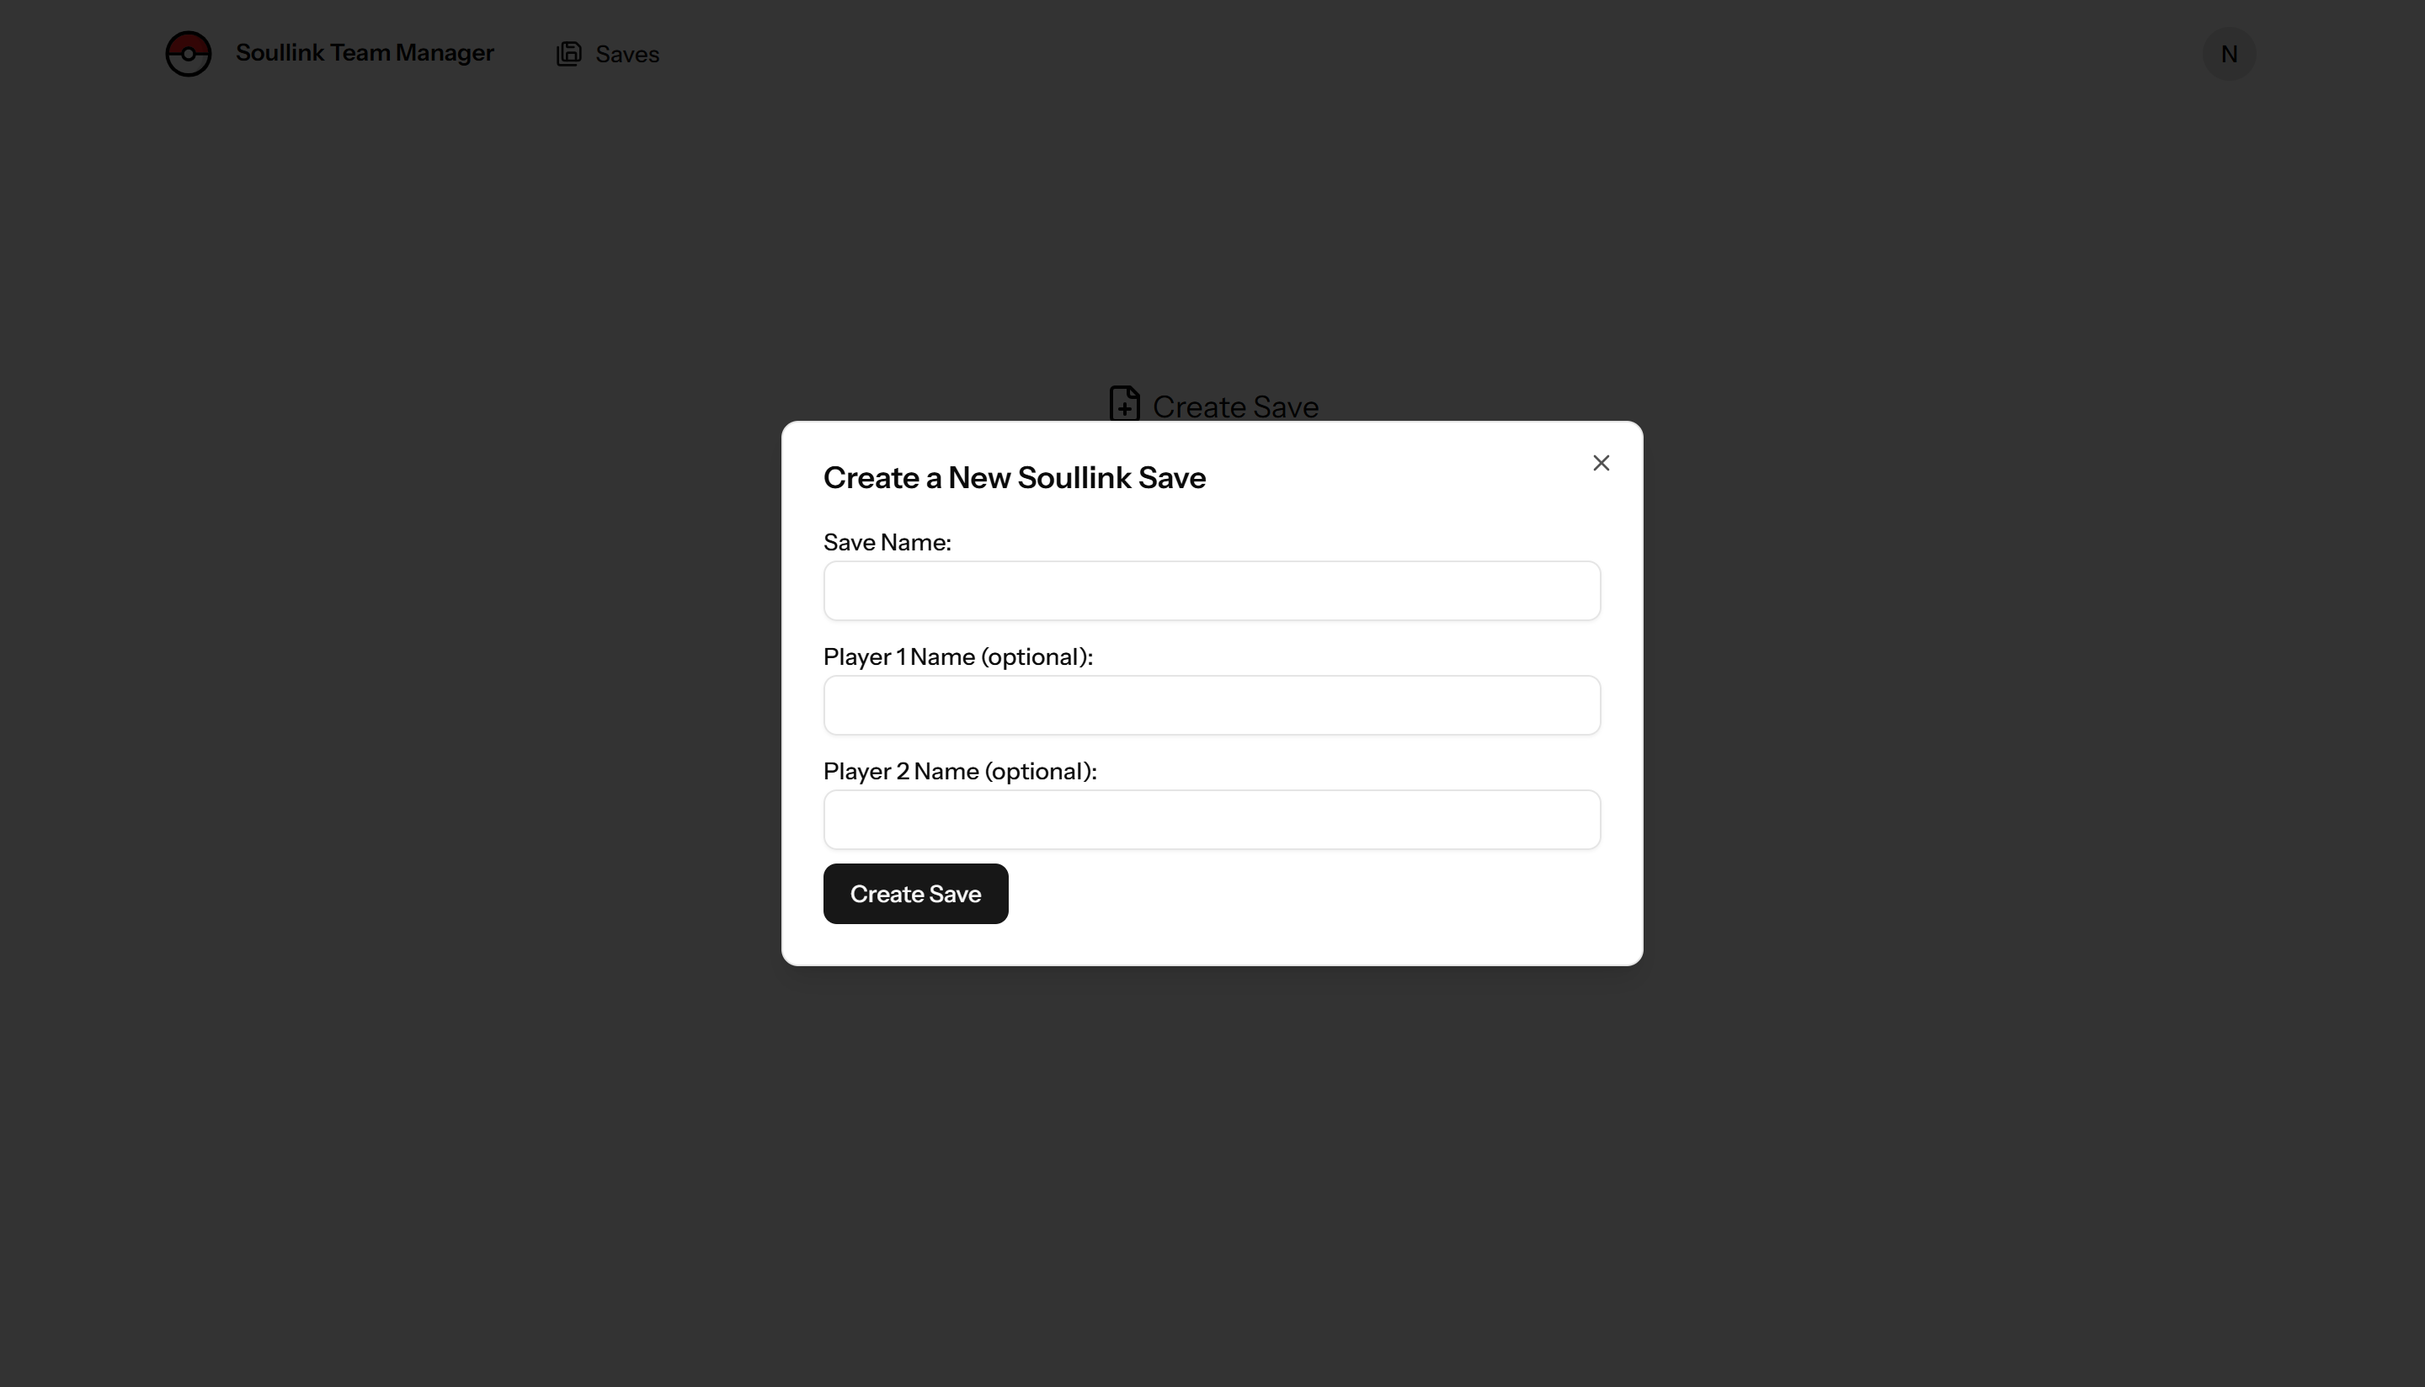
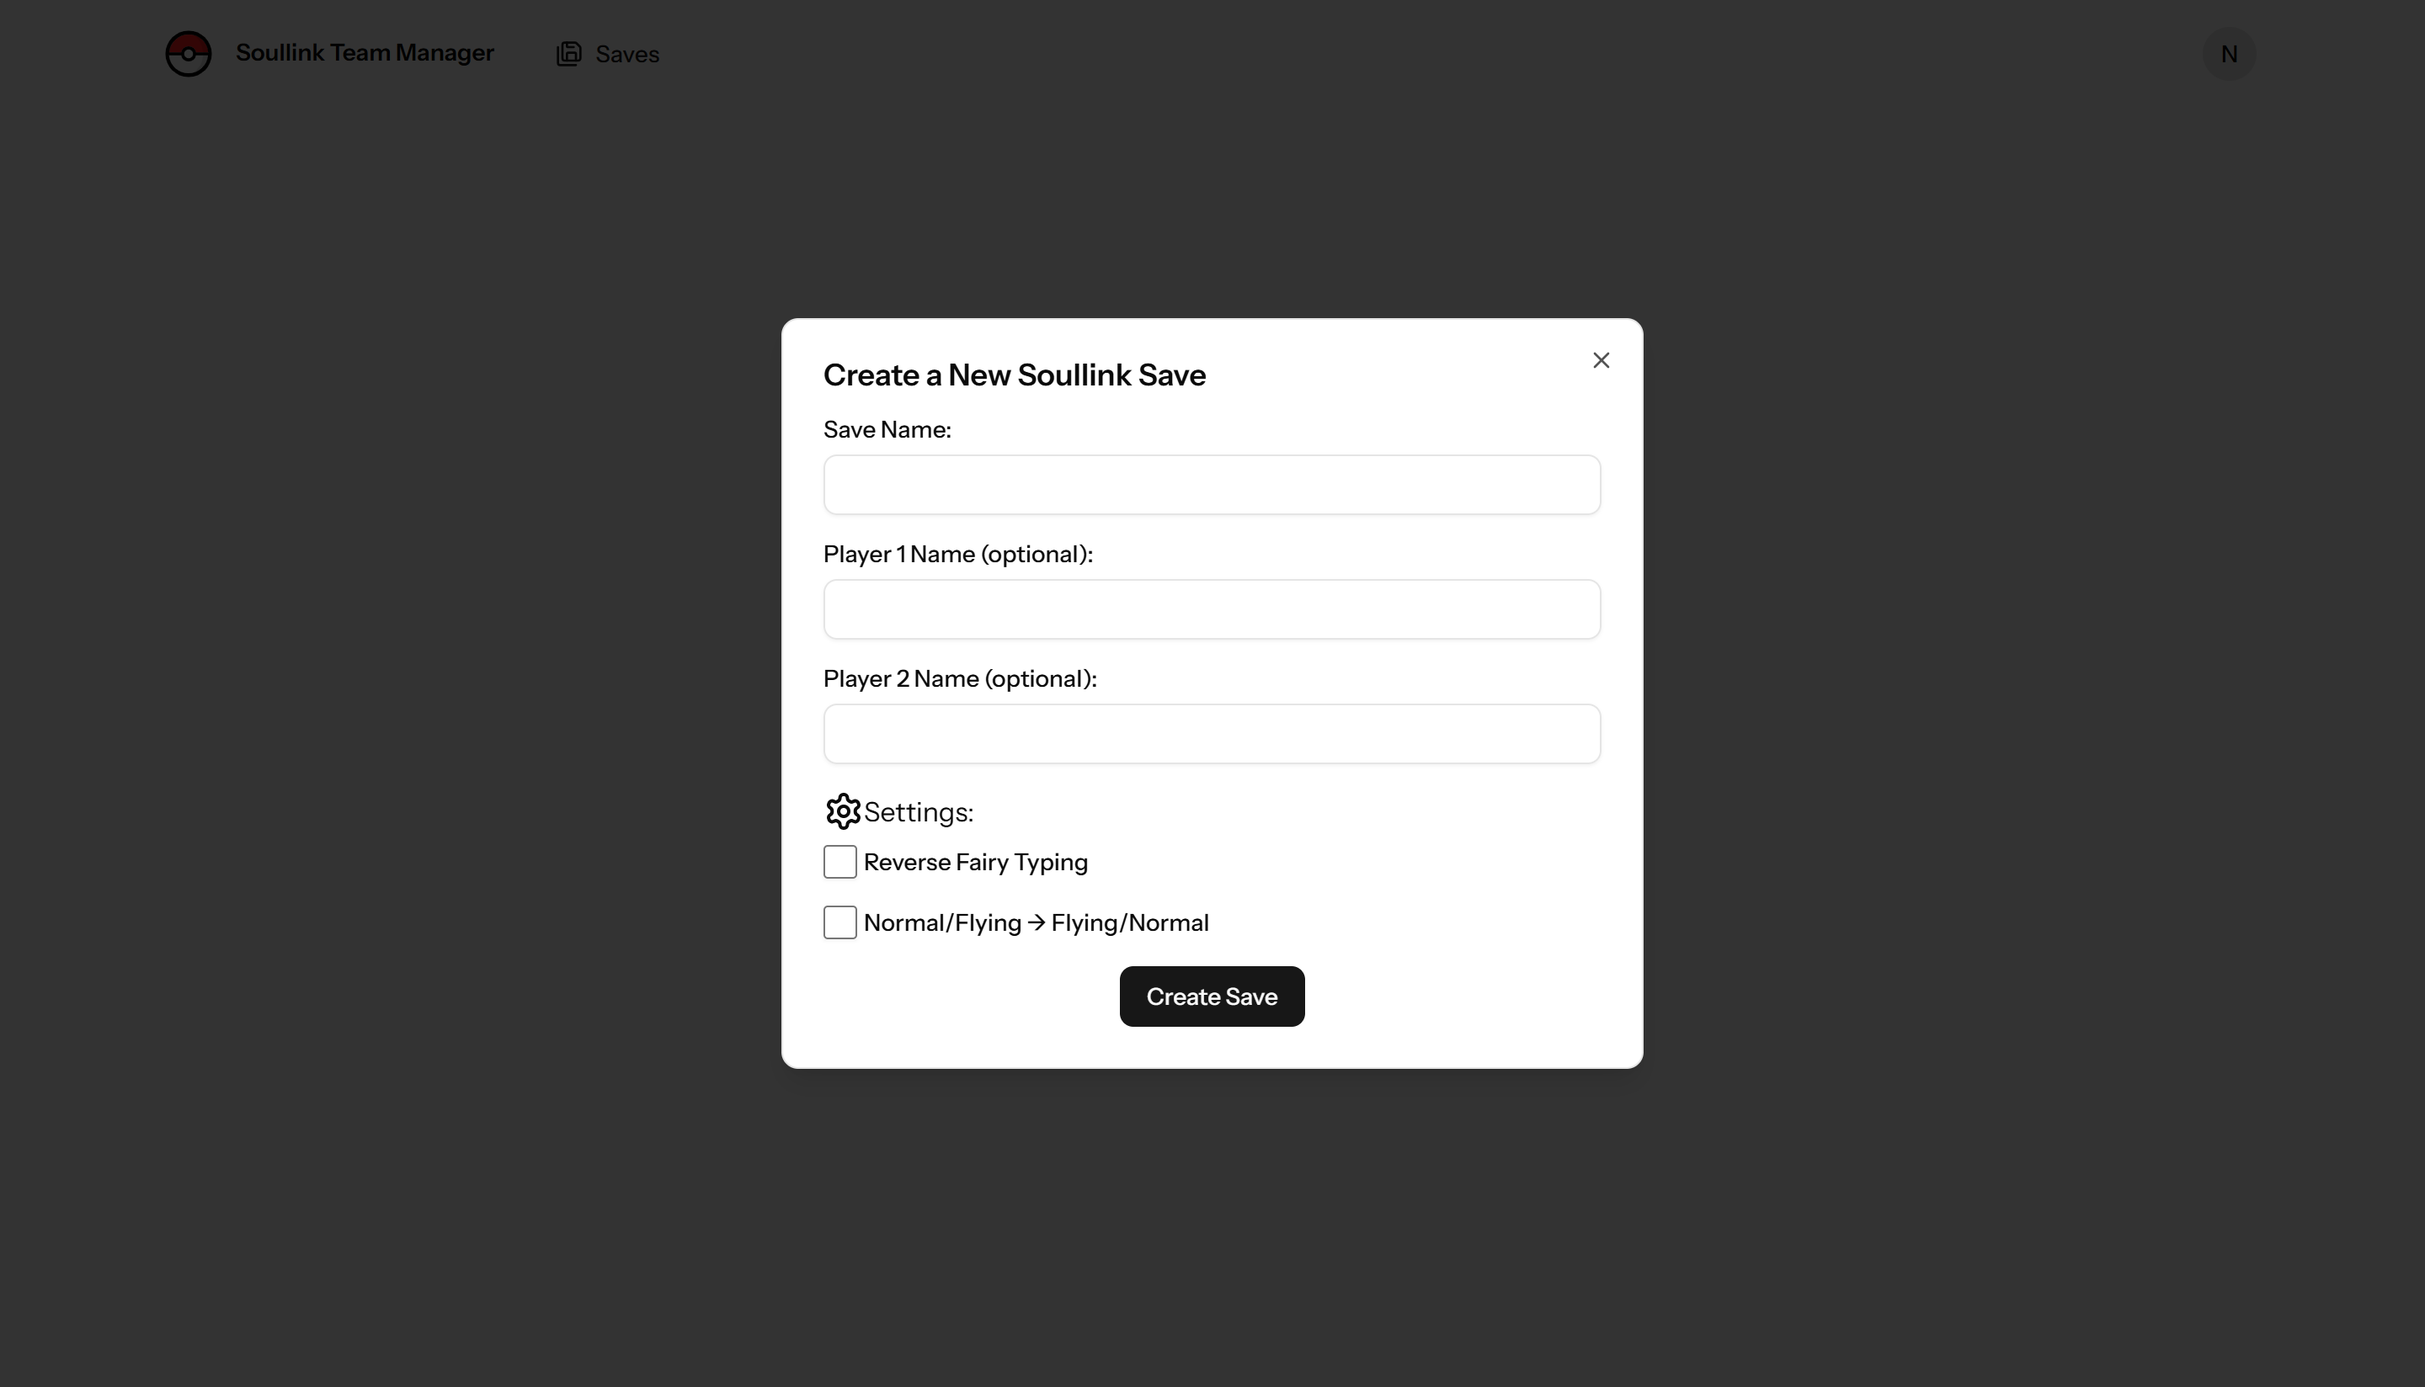
Add settings for Pokémon save options and update UI components
- Introduced 'swap_normal_flying_order' and 'revert_fairy_typing' settings in Save model and migration.
- Updated PairController to handle new settings during Pokémon type fetching.
- Enhanced SavesMenu component with UI for new settings, including tooltips for user guidance.

Changed region(s): [[0.3125, 0.5261, 0.6875, 0.7737], [0.3125, 0.2166, 0.6875, 0.4333], [0.3438, 0.4642, 0.4688, 0.4951]]

diff --git a/resources/js/components/soullink/saves-menu.tsx b/resources/js/components/soullink/saves-menu.tsx
@@ -4,8 +4,9 @@ import { Button } from '@/components/ui/button';
 import { Dialog, DialogContent, DialogHeader, DialogTitle, DialogTrigger } from '@/components/ui/dialog';
 import { Input } from '@/components/ui/input';
 import { Label } from '@/components/ui/label';
+import { Tooltip, TooltipContent, TooltipProvider, TooltipTrigger } from '@/components/ui/tooltip';
 import { Form, Link } from '@inertiajs/react';
-import { FilePlus, Save, Trash2 } from 'lucide-react';
+import { FilePlus, Save, Settings, Trash2 } from 'lucide-react';
 
 export default function SavesMenu({ saves }: { saves: any[] }) {
     return (
@@ -21,7 +22,7 @@ export default function SavesMenu({ saves }: { saves: any[] }) {
                     <DialogHeader>
                         <DialogTitle>Create a New Soullink Save</DialogTitle>
                     </DialogHeader>
-                    <Form action={store()} disableWhileProcessing>
+                    <Form action={store()} disableWhileProcessing className="flex flex-col gap-2">
                         {({ errors }) => (
                             <>
                                 <Label htmlFor="name">Save Name: </Label>
@@ -33,7 +34,47 @@ export default function SavesMenu({ saves }: { saves: any[] }) {
                                 <Label htmlFor="p2">Player 2 Name (optional): </Label>
                                 <Input className="mb-2" type="text" id="p2" name="p2"></Input>
                                 <InputError message={errors.p2} className="mt-2" />
-                                <Button className="cursor-pointer" type="submit">
+                                <p className="flex items-center">
+                                    <Settings className="ml-0" />
+                                    Settings:
+                                </p>
+                                <div className="mb-2">
+                                    <TooltipProvider>
+                                        <Tooltip>
+                                            <TooltipTrigger type="button" className="flex items-center">
+                                                <Input
+                                                    className="mr-1 size-5 cursor-pointer"
+                                                    type="checkbox"
+                                                    id="revert_fairy_typing"
+                                                    name="revert_fairy_typing"
+                                                ></Input>
+                                                <Label htmlFor="revert_fairy_typing">Reverse Fairy Typing </Label>
+                                            </TooltipTrigger>
+                                            <TooltipContent>
+                                                <p>Reverts pokemon like clefable from fairy to normal (recommended if playing generations 1-5)</p>
+                                            </TooltipContent>
+                                        </Tooltip>
+                                    </TooltipProvider>
+                                </div>
+                                <div className="mb-2">
+                                    <TooltipProvider>
+                                        <Tooltip>
+                                            <TooltipTrigger type="button" className="flex items-center">
+                                                <Input
+                                                    className="mr-1 size-5 cursor-pointer"
+                                                    type="checkbox"
+                                                    id="swap_normal_flying_order"
+                                                    name="swap_normal_flying_order"
+                                                ></Input>
+                                                <Label htmlFor="swap_normal_flying_order">Normal/Flying {'->'} Flying/Normal </Label>
+                                            </TooltipTrigger>
+                                            <TooltipContent>
+                                                <p>Reduces overcrowding in the Normal pool and makes teambuilding more fair.</p>
+                                            </TooltipContent>
+                                        </Tooltip>
+                                    </TooltipProvider>
+                                </div>
+                                <Button className="cursor-pointer self-center" type="submit">
                                     Create Save
                                 </Button>
                             </>
@@ -43,6 +84,7 @@ export default function SavesMenu({ saves }: { saves: any[] }) {
             </Dialog>
             <div className="mt-4 flex flex-col gap-2 text-center">
                 <p className="text-center">Load Save</p>
+                {/* TODO: make whole link clickable not just save name */}
                 {saves.map((save) => (
                     <div
                         className="align-center flex min-w-3xs justify-between rounded-sm px-3 py-2 transition-colors hover:bg-accent md:min-w-sm"

diff --git a/resources/js/components/ui/tooltip.tsx b/resources/js/components/ui/tooltip.tsx
@@ -3,57 +3,28 @@ import * as TooltipPrimitive from "@radix-ui/react-tooltip"
 
 import { cn } from "@/lib/utils"
 
-function TooltipProvider({
-  delayDuration = 0,
-  ...props
-}: React.ComponentProps<typeof TooltipPrimitive.Provider>) {
-  return (
-    <TooltipPrimitive.Provider
-      data-slot="tooltip-provider"
-      delayDuration={delayDuration}
+const TooltipProvider = TooltipPrimitive.Provider
+
+const Tooltip = TooltipPrimitive.Root
+
+const TooltipTrigger = TooltipPrimitive.Trigger
+
+const TooltipContent = React.forwardRef<
+  React.ElementRef<typeof TooltipPrimitive.Content>,
+  React.ComponentPropsWithoutRef<typeof TooltipPrimitive.Content>
+>(({ className, sideOffset = 4, ...props }, ref) => (
+  <TooltipPrimitive.Portal>
+    <TooltipPrimitive.Content
+      ref={ref}
+      sideOffset={sideOffset}
+      className={cn(
+        "z-50 overflow-hidden rounded-md bg-primary px-3 py-1.5 text-xs text-primary-foreground animate-in fade-in-0 zoom-in-95 data-[state=closed]:animate-out data-[state=closed]:fade-out-0 data-[state=closed]:zoom-out-95 data-[side=bottom]:slide-in-from-top-2 data-[side=left]:slide-in-from-right-2 data-[side=right]:slide-in-from-left-2 data-[side=top]:slide-in-from-bottom-2 origin-[--radix-tooltip-content-transform-origin]",
+        className
+      )}
       {...props}
     />
-  )
-}
-
-function Tooltip({
-  ...props
-}: React.ComponentProps<typeof TooltipPrimitive.Root>) {
-  return (
-    <TooltipProvider>
-      <TooltipPrimitive.Root data-slot="tooltip" {...props} />
-    </TooltipProvider>
-  )
-}
-
-function TooltipTrigger({
-  ...props
-}: React.ComponentProps<typeof TooltipPrimitive.Trigger>) {
-  return <TooltipPrimitive.Trigger data-slot="tooltip-trigger" {...props} />
-}
-
-function TooltipContent({
-  className,
-  sideOffset = 4,
-  children,
-  ...props
-}: React.ComponentProps<typeof TooltipPrimitive.Content>) {
-  return (
-    <TooltipPrimitive.Portal>
-      <TooltipPrimitive.Content
-        data-slot="tooltip-content"
-        sideOffset={sideOffset}
-        className={cn(
-          "bg-primary text-primary-foreground animate-in fade-in-0 zoom-in-95 data-[state=closed]:animate-out data-[state=closed]:fade-out-0 data-[state=closed]:zoom-out-95 data-[side=bottom]:slide-in-from-top-2 data-[side=left]:slide-in-from-right-2 data-[side=right]:slide-in-from-left-2 data-[side=top]:slide-in-from-bottom-2 z-50 max-w-sm rounded-md px-3 py-1.5 text-xs",
-          className
-        )}
-        {...props}
-      >
-        {children}
-        <TooltipPrimitive.Arrow className="bg-primary fill-primary z-50 size-2.5 translate-y-[calc(-50%_-_2px)] rotate-45 rounded-[2px]" />
-      </TooltipPrimitive.Content>
-    </TooltipPrimitive.Portal>
-  )
-}
+  </TooltipPrimitive.Portal>
+))
+TooltipContent.displayName = TooltipPrimitive.Content.displayName
 
 export { Tooltip, TooltipTrigger, TooltipContent, TooltipProvider }

diff --git a/app/Http/Controllers/SaveController.php b/app/Http/Controllers/SaveController.php
@@ -2,12 +2,11 @@
 
 namespace App\Http\Controllers;
 
+use App\Models\Pair;
 use App\Models\Save;
 use Illuminate\Http\Request;
-use Inertia\Inertia;
-use Inertia\Response;
-use App\Models\Pair;
 use Illuminate\Support\Facades\Gate;
+use Inertia\Inertia;
 
 class SaveController extends Controller
 {
@@ -17,6 +16,7 @@ class SaveController extends Controller
     public function index()
     {
         $saves = Save::where('user_id', auth()->id())->get();
+
         return Inertia::render('dashboard', [
             'saves' => $saves,
         ]);
@@ -39,14 +39,19 @@ class SaveController extends Controller
             'name' => 'required|string|max:255',
             'p1' => 'nullable|string|max:30',
             'p2' => 'nullable|string|max:30',
+            'swap_normal_flying_order' => 'nullable|string',
+            'revert_fairy_typing' => 'nullable|string',
         ]);
 
         $save = Save::create([
             'name' => $request->name,
             'player_one_name' => $request->p1,
             'player_two_name' => $request->p2,
+            'swap_normal_flying_order' => $request->swap_normal_flying_order ? 1 : 0,
+            'revert_fairy_typing' => $request->revert_fairy_typing ? 1 : 0,
             'user_id' => auth()->id(),
         ]);
+
         return to_route('saves.show', $save);
     }
 
@@ -56,10 +61,11 @@ class SaveController extends Controller
     public function show(Save $save)
     {
         Gate::authorize('view', $save);
-        
+
         $pairs = Pair::where('save_id', $save->id)->orderBy('created_at', 'asc')->get();
         $alivePairs = $pairs->where('is_alive', 1)->values();
         $deadBox = $pairs->where('is_alive', 0)->values();
+
         return Inertia::render('tracker', [
             'save' => $save,
             'livingBox' => $alivePairs,
@@ -90,6 +96,7 @@ class SaveController extends Controller
     {
         Gate::authorize('delete', $save);
         $save->delete();
+
         return to_route('saves.index');
     }
 }

diff --git a/app/Http/Controllers/PairController.php b/app/Http/Controllers/PairController.php
@@ -9,6 +9,17 @@ use Illuminate\Support\Facades\Gate;
 
 class PairController extends Controller
 {
+    private $fairyPokemon = [
+        'cleffa',
+        'clefairy',
+        'clefable',
+        'granbull',
+        'snubbull',
+        'togepi',
+        'togetic',
+        'togekiss',
+    ];
+
     /**
      * Display a listing of the resource.
      */
@@ -39,6 +50,16 @@ class PairController extends Controller
 
         $pokemonOneTypes = $this->fetchPokemonTypes($request->playerOnePokemon);
         $pokemonTwoTypes = $this->fetchPokemonTypes($request->playerTwoPokemon);
+
+        if ($save->swap_normal_flying_order) {
+            $pokemonOneTypes = $this->swapNormalFlyingOrder($pokemonOneTypes);
+            $pokemonTwoTypes = $this->swapNormalFlyingOrder($pokemonTwoTypes);
+        }
+
+        if ($save->revert_fairy_typing) {
+            $pokemonOneTypes = $this->revertFairyTyping($request->playerOnePokemon, $pokemonOneTypes);
+            $pokemonTwoTypes = $this->revertFairyTyping($request->playerTwoPokemon, $pokemonTwoTypes);
+        }
 
         if ($pokemonOneTypes[0] == $pokemonTwoTypes[0]) {
             return back()->withErrors(['samePrimaryType' => 'Both Pokémon cannot share the same primary type.']);
@@ -180,5 +201,25 @@ class PairController extends Controller
         }
 
         return $types;
+    }
+
+    private function swapNormalFlyingOrder($pokemonTypes)
+    {
+        if ($pokemonTypes[0] == 'normal' && $pokemonTypes[1] == 'flying') {
+            return ['flying', 'normal'];
+        }
+
+        return $pokemonTypes;
+    }
+
+    private function revertFairyTyping($pokemon, $pokemonTypes)
+    {
+        if ($pokemonTypes[0] == 'fairy') {
+            if (in_array(strtolower($pokemon), $this->fairyPokemon)) {
+                return ['normal', null];
+            }
+        }
+
+        return $pokemonTypes;
     }
 }

diff --git a/database/migrations/2025_11_28_092113_add_settings_to_saves_table.php b/database/migrations/2025_11_28_092113_add_settings_to_saves_table.php
@@ -1,0 +1,30 @@
+<?php
+
+use Illuminate\Database\Migrations\Migration;
+use Illuminate\Database\Schema\Blueprint;
+use Illuminate\Support\Facades\Schema;
+
+return new class extends Migration
+{
+    /**
+     * Run the migrations.
+     */
+    public function up(): void
+    {
+        Schema::table('saves', function (Blueprint $table) {
+            $table->boolean('swap_normal_flying_order')->default(false)->after('player_two_name');
+            $table->boolean('revert_fairy_typing')->default(false)->after('swap_normal_flying_order');
+        });
+    }
+
+    /**
+     * Reverse the migrations.
+     */
+    public function down(): void
+    {
+        Schema::table('saves', function (Blueprint $table) {
+            $table->dropColumn('swap_normal_flying_order');
+            $table->dropColumn('revert_fairy_typing');
+        });
+    }
+};

diff --git a/app/Models/Save.php b/app/Models/Save.php
@@ -15,6 +15,8 @@ class Save extends Model
         'name',
         'player_one_name',
         'player_two_name',
+        'swap_normal_flying_order',
+        'revert_fairy_typing',
         'user_id',
     ];
 }
